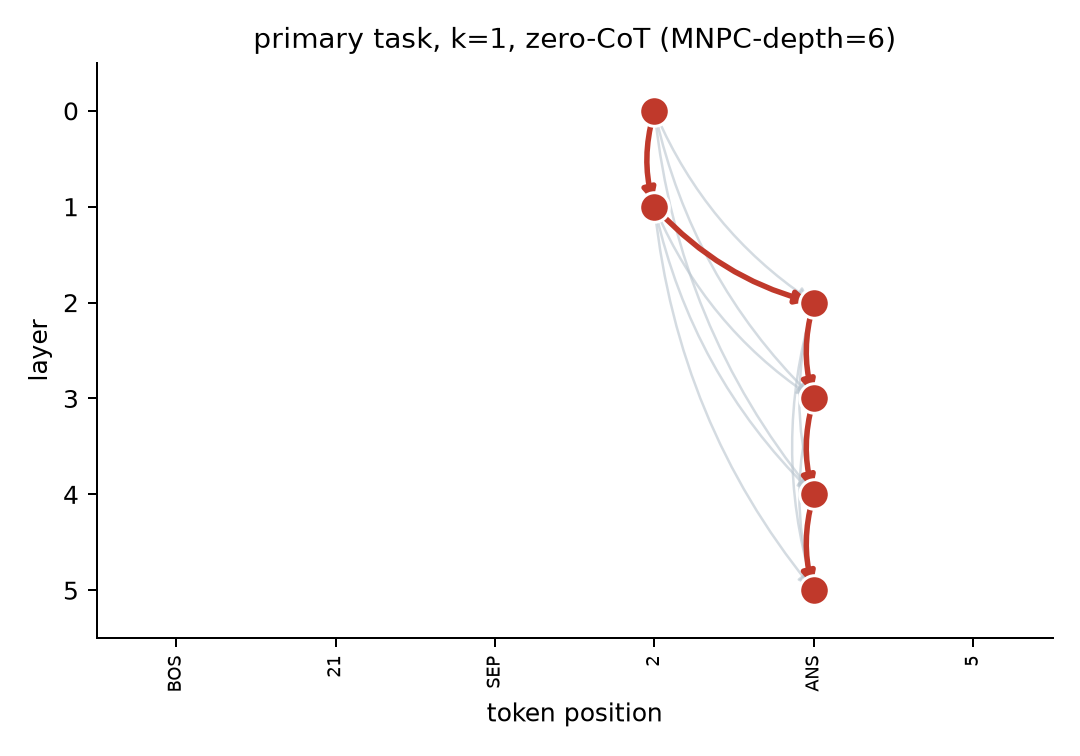
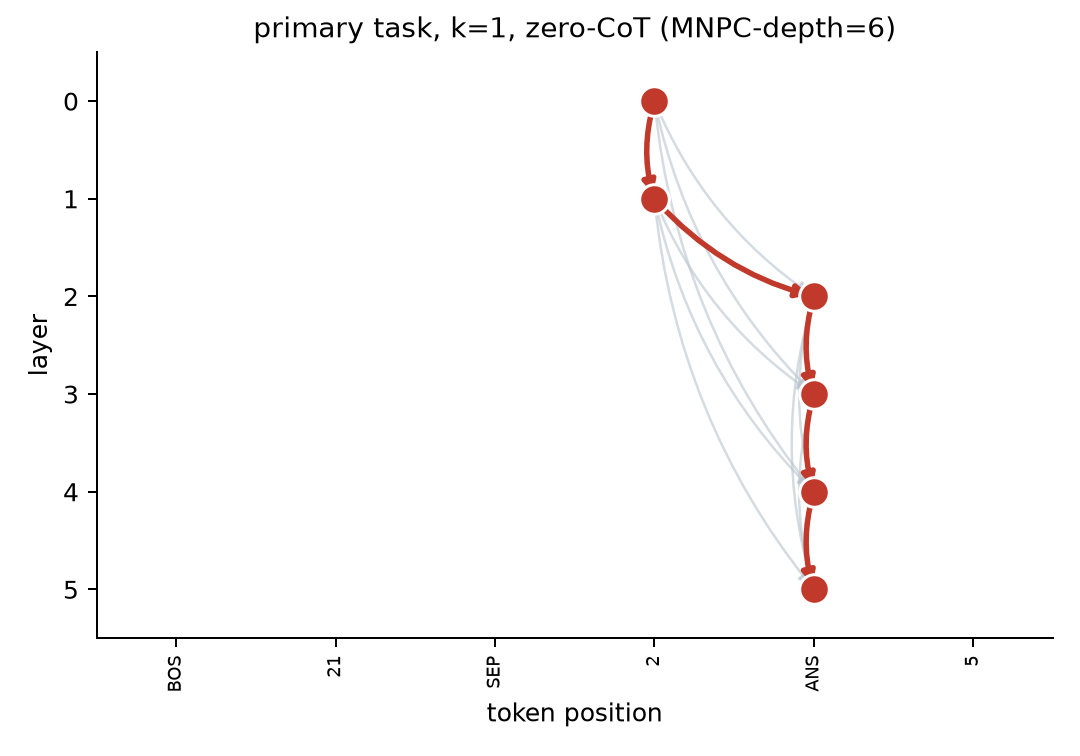
Fix figure title clipping

diff --git a/src/undertow/viz.py b/src/undertow/viz.py
@@ -6,6 +6,7 @@ stand-ins.
 
 from __future__ import annotations
 
+import textwrap
 from itertools import pairwise
 from pathlib import Path
 
@@ -14,6 +15,20 @@ import numpy as np
 from matplotlib.patches import FancyArrowPatch
 
 from undertow.graph import CausalGraph, Site
+
+
+def set_wrapped_title(fig, ax, title: str, fontsize: int = 11, width: int = 42) -> None:
+    """Wraps `title` to `width` characters with explicit newlines (rather than
+    matplotlib's own `wrap=True`, which measures wrapping at render time after
+    `tight_layout` has already fixed the figure's margins, and reliably clips the top
+    line of anything that wraps to more than one line) and reserves enough headroom
+    for however many lines that produces before the layout is finalized."""
+    lines = textwrap.fill(title, width=width)
+    n_lines = lines.count("\n") + 1
+    ax.set_title(lines, fontsize=fontsize)
+    fig.tight_layout()
+    per_line = 0.045 + fontsize * 0.0022
+    fig.subplots_adjust(top=1.0 - per_line * n_lines)
 
 
 def token_labels(tokens: np.ndarray, answer_pos: int) -> list[str]:
@@ -78,10 +93,9 @@ def render_causal_graph(
     if token_text is not None:
         ax.set_xticks(range(seq_len))
         ax.set_xticklabels(token_text, rotation=90, fontsize=7)
-    ax.set_title(title, fontsize=11, wrap=True)
     for spine in ("top", "right"):
         ax.spines[spine].set_visible(False)
-    fig.tight_layout()
+    set_wrapped_title(fig, ax, title)
     fig.savefig(out_path, dpi=180)
     plt.close(fig)
 
@@ -105,9 +119,8 @@ def render_effect_heatmap(
     if token_text is not None:
         ax.set_xticks(range(seq_len))
         ax.set_xticklabels(token_text, rotation=90, fontsize=7)
-    ax.set_title(title, fontsize=11, wrap=True)
     fig.colorbar(im, ax=ax, label="patching effect (restores correct answer)", shrink=0.85)
-    fig.tight_layout()
+    set_wrapped_title(fig, ax, title)
     fig.savefig(out_path, dpi=180)
     plt.close(fig)
 
@@ -131,11 +144,10 @@ def render_depth_vs_k(
         ax.plot(ks, vals, marker=marker, color=color, linewidth=2.0, markersize=7, label=name)
     ax.set_xlabel(xlabel)
     ax.set_ylabel("mean MNPC-depth")
-    ax.set_title(title, fontsize=11, wrap=True)
     ax.legend(frameon=False)
     for spine in ("top", "right"):
         ax.spines[spine].set_visible(False)
-    fig.tight_layout()
+    set_wrapped_title(fig, ax, title)
     fig.savefig(out_path, dpi=180)
     plt.close(fig)
 
@@ -160,11 +172,10 @@ def render_accuracy_collapse(
     ax.set_xticklabels(["with reasoning", "zero-CoT"])
     ax.set_ylabel("exact-match accuracy")
     ax.set_ylim(-0.03, 1.0)
-    ax.set_title(title, fontsize=11, wrap=True)
     ax.legend(frameon=False, loc="upper right", fontsize=9)
     for spine in ("top", "right"):
         ax.spines[spine].set_visible(False)
-    fig.tight_layout()
+    set_wrapped_title(fig, ax, title)
     fig.savefig(out_path, dpi=180)
     plt.close(fig)
 
@@ -181,10 +192,9 @@ def render_opacity_gap_dotplot(
     ax.set_xticks(ks)
     ax.set_xlabel("chained addition steps k")
     ax.set_ylabel("opacity gap (MNPC-depth - 1)")
-    ax.set_title(title, fontsize=11, wrap=True)
     for spine in ("top", "right"):
         ax.spines[spine].set_visible(False)
-    fig.tight_layout()
+    set_wrapped_title(fig, ax, title)
     fig.savefig(out_path, dpi=180)
     plt.close(fig)
 
@@ -226,10 +236,9 @@ def render_scaling_comparison(
     ax.set_ylim(-0.03, 1.0)
     ax.set_xlabel("model size")
     ax.set_ylabel("exact-match accuracy")
-    ax.set_title(title, fontsize=11, wrap=True)
     ax.legend(frameon=False, fontsize=8, ncol=2, loc="upper left")
     for spine in ("top", "right"):
         ax.spines[spine].set_visible(False)
-    fig.tight_layout()
+    set_wrapped_title(fig, ax, title)
     fig.savefig(out_path, dpi=180)
     plt.close(fig)
